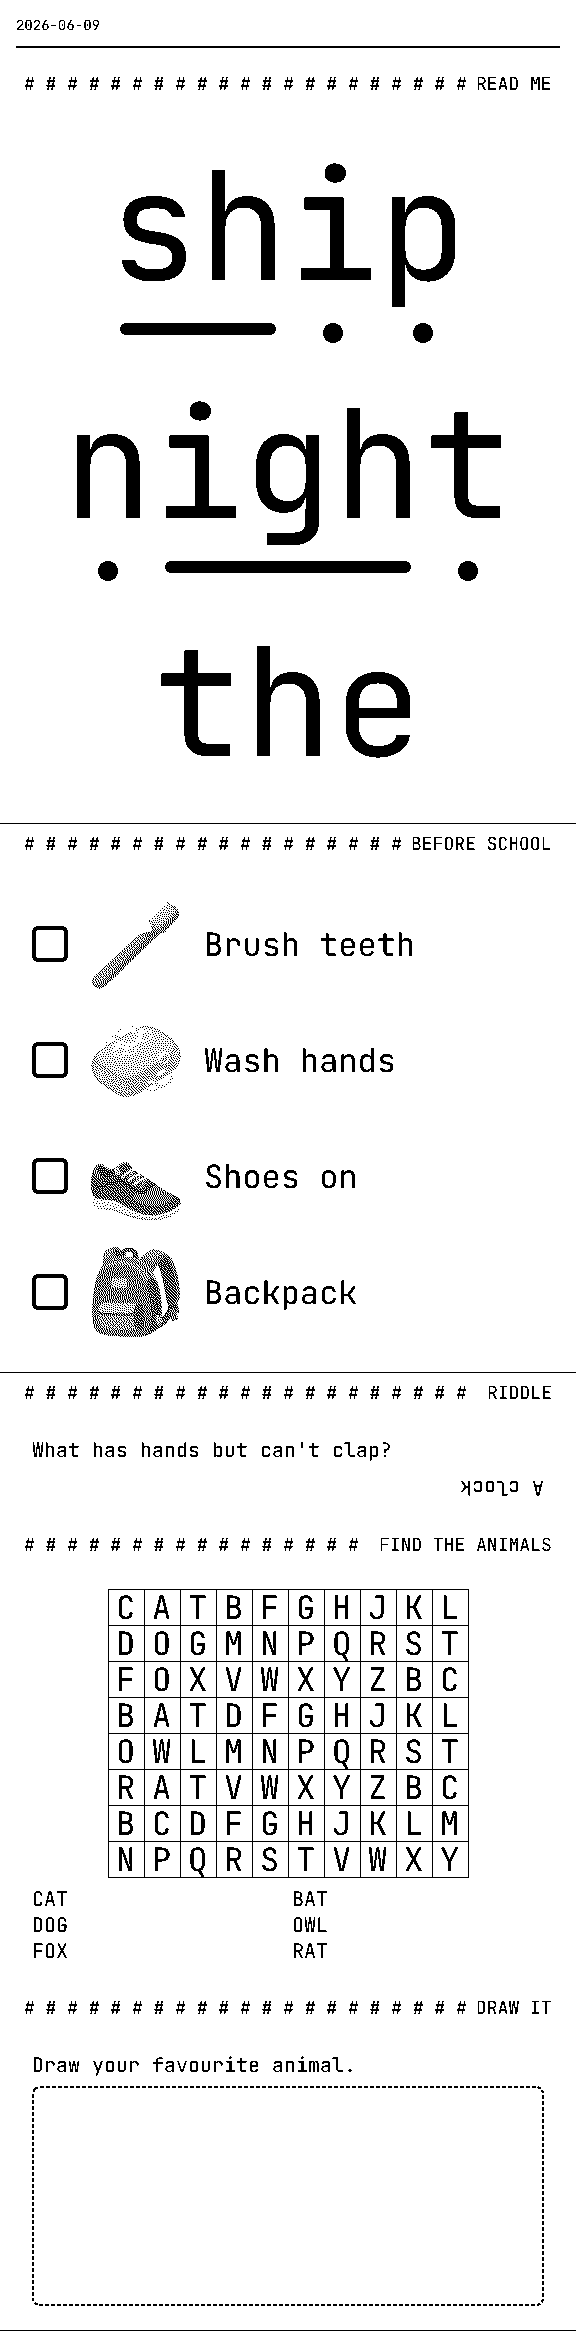
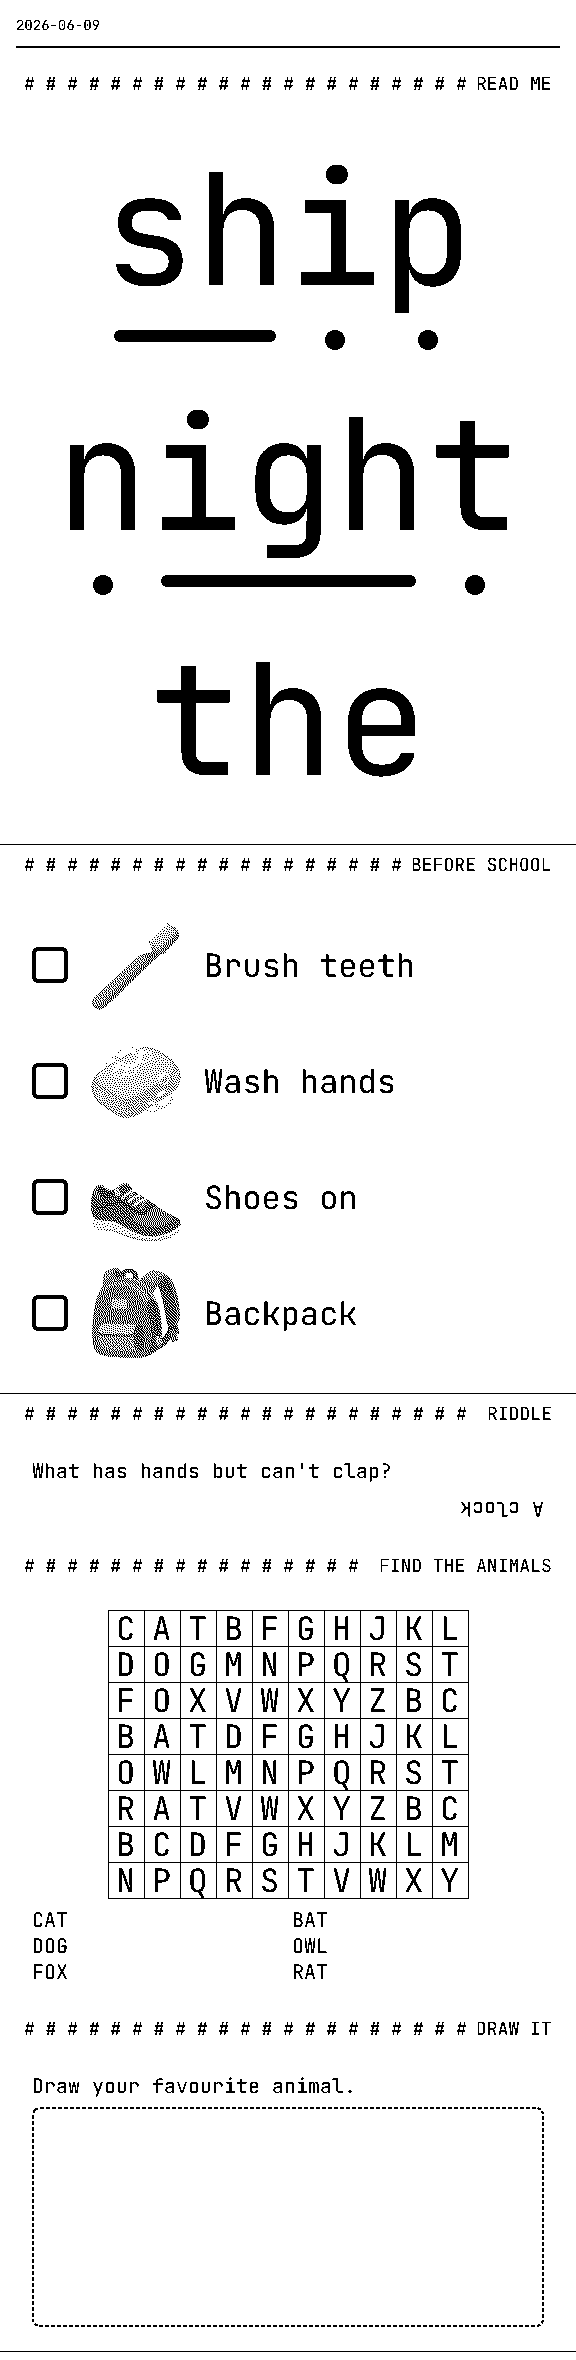
fix: address review on visual refs and phonics fitting
- render-visual-refs throws when a render reports failedBlocks, so an
  invalid doc example fails the run instead of writing a blank PNG.
- phonicsDemo fits the widest word using per-character upper-bound
  advances (1 em for m/w/M/W, 0.8 for caps and digits, 0.66 for other
  lowercase, never below the monospaced 0.6), so wide words like WWWW stay
  on the paper under proportional themes. The recipe is updated to match.

diff --git a/apps/playground/src/showcase-blocks/phonics-demo.tsx b/apps/playground/src/showcase-blocks/phonics-demo.tsx
@@ -30,18 +30,32 @@ const phonicsDemoSchema: ZodType<{ words: PhonicsWord[] }> = z.object({
 export type PhonicsDemoData = z.infer<typeof phonicsDemoSchema>;
 
 /**
- * Average glyph advance used to fit the longest word, in em. 0.6 is exact for
- * monospaced faces (JetBrains Mono, the `mono` theme); proportional faces
- * average a little more, so 0.68 keeps their widest words inside the paper.
+ * Conservative advance of one character, in em: an upper bound across the
+ * builtin faces (Inter, Atkinson Hyperlegible, JetBrains Mono), so the word
+ * fits whatever the theme. Monospaced faces advance exactly 0.6 em per glyph,
+ * so no class goes below that; wide letters (m, w, M, W) approach 1 em in
+ * proportional faces. Accents are ignored (NFD base letter); anything
+ * unrecognised counts as a full em.
  */
-export const PHONICS_ADVANCE_EM = 0.68;
+export function phonicsAdvanceEm(char: string): number {
+  const base = char.normalize("NFD")[0] ?? char;
+  if (/[mwMW@%]/.test(base)) return 1;
+  if (/[A-Z0-9]/.test(base)) return 0.8;
+  if (/[a-z]/.test(base)) return 0.66;
+  if (/[\s'.,!?-]/.test(base)) return 0.6;
+  return 1;
+}
+
 /** Font ceiling: 160 px is ~20 mm at 203 dpi, so short words don't fill the whole slip. */
 export const PHONICS_MAX_FONT_PX = 160;
 
-/** Largest font size at which the longest word fits `contentWidth`, capped at PHONICS_MAX_FONT_PX. */
+/** Largest font size at which the widest word fits `contentWidth`, capped at PHONICS_MAX_FONT_PX. */
 export function phonicsFontSize(words: readonly PhonicsWord[], contentWidth: number): number {
-  const longest = Math.max(1, ...words.map((w) => [...w.word].length));
-  const fitted = Math.floor((contentWidth - 16) / (longest * PHONICS_ADVANCE_EM));
+  const widestEm = Math.max(
+    1,
+    ...words.map((w) => [...w.word].reduce((em, c) => em + phonicsAdvanceEm(c), 0)),
+  );
+  const fitted = Math.floor((contentWidth - 16) / widestEm);
   return Math.max(1, Math.min(PHONICS_MAX_FONT_PX, fitted));
 }
 
@@ -118,6 +132,6 @@ export const phonicsDemoBlock: BlockDefinition<PhonicsDemoData> = defineBlock({
     "Required: `data.words`: 1–6 `{ word, graphemes }`; graphemes must join back into word",
     "Tip: one-letter graphemes get a dot, digraphs/trigraphs (`sh`, `igh`) get a dash",
     "Tip: set `tricky: true` on irregular words to print them without marks",
-    "Tip: the font fits the longest word, capped at 160 px — try the mono theme",
+    "Tip: the font fits the widest word, capped at 160 px — try the mono theme",
   ],
 });

diff --git a/apps/playground/src/showcase-blocks/__tests__/phonics-demo.test.tsx b/apps/playground/src/showcase-blocks/__tests__/phonics-demo.test.tsx
@@ -6,7 +6,12 @@ import type { RenderContext } from "pressedslip";
 import { SHELL_DEFAULTS } from "pressedslip";
 import { renderToStaticMarkup } from "react-dom/server";
 import { describe, expect, it } from "vitest";
-import { PHONICS_MAX_FONT_PX, phonicsDemoBlock, phonicsFontSize } from "../phonics-demo.js";
+import {
+  PHONICS_MAX_FONT_PX,
+  phonicsAdvanceEm,
+  phonicsDemoBlock,
+  phonicsFontSize,
+} from "../phonics-demo.js";
 
 /* biome-ignore lint/suspicious/noEmptyBlockStatements: test stub */
 const noop = () => {};
@@ -55,7 +60,21 @@ describe("phonicsDemoBlock", () => {
     const long = [{ word: "elephants", graphemes: ["e", "l", "e", "ph", "a", "n", "t", "s"] }];
     const size = phonicsFontSize(long, 544);
     expect(size).toBeLessThan(PHONICS_MAX_FONT_PX);
-    expect(size * 9 * 0.68).toBeLessThanOrEqual(544 - 16);
+    expect(size * 9 * 0.66).toBeLessThanOrEqual(544 - 16);
+  });
+
+  it("budgets a full em for wide letters so WWWW stays on the paper", () => {
+    const wide = [{ word: "WWWW", graphemes: ["W", "W", "W", "W"] }];
+    const size = phonicsFontSize(wide, 544);
+    // Inter's W advances ~0.96 em; four of them must fit the 528 px inner width.
+    expect(size * 4 * 0.96).toBeLessThanOrEqual(544 - 16);
+    expect(size).toBeLessThan(PHONICS_MAX_FONT_PX);
+  });
+
+  it("never estimates below the monospaced 0.6 em advance", () => {
+    for (const c of ["i", "l", "'", "é", "Ñ", "m", "W", "😀"]) {
+      expect(phonicsAdvanceEm(c)).toBeGreaterThanOrEqual(0.6);
+    }
   });
 
   it("draws a dot per letter and a stretched dash per digraph", () => {

diff --git a/scripts/docs/render-visual-refs.ts b/scripts/docs/render-visual-refs.ts
@@ -108,6 +108,10 @@ async function renderToPng(
     ? { registry, theme: themeTemplate, width: PAPER.thermal80 }
     : { registry, fonts: [font], width: PAPER.thermal80 };
   const r = await render(composition, options);
+  // A rejected block still yields a PNG (blank where the block should be):
+  // fail loudly so a broken doc example can't ship an empty image.
+  if (r.failedBlocks.length > 0)
+    throw new Error(`${outName}: ${JSON.stringify(r.failedBlocks.map((f) => f.reason.message))}`);
   const bytes = crop ? cropHeader(r.bytes) : r.bytes;
   const outPath = resolve(OUT_DIR, outName);
   writeFileSync(outPath, bytes);

diff --git a/docs/guide/recipes.md b/docs/guide/recipes.md
@@ -143,10 +143,12 @@ trigraphs such as `sh` and `igh`. Tricky words get no marks.
 The patterns:
 
 1. **Fit from `ctx.contentWidth`.** It is the usable width inside the shell
-   padding. Divide it by the longest word's length times the font's average
-   advance. For a monospaced face that is exactly `0.6 em` (JetBrains Mono,
-   the `mono` theme), which makes the "fits, one more pixel would not" test
-   exact. Proportional faces need a little more headroom (`~0.68 em`).
+   padding. Divide it by the widest word's width in em. For a monospaced face
+   every glyph advances exactly `0.6 em` (JetBrains Mono, the `mono` theme),
+   which makes the "fits, one more pixel would not" test exact. If the theme
+   might be proportional, budget per character instead of using an average.
+   Wide letters (`m`, `w`, `M`, `W`) approach `1 em`, and an average lets
+   `WWWW` run off the paper.
 2. **Cap it.** `160 px` is about 20 mm at 203 dpi. Without a cap, a three-letter
    word fills the whole slip.
 3. **Draw marks as boxes, not glyphs.** A `div` with `backgroundColor` and a
@@ -155,12 +157,20 @@ The patterns:
    real glyph width and the mark centres under it.
 
 ```ts
-const ADVANCE_EM = 0.6; // monospaced; use ~0.68 for proportional faces
 const MAX_PX = 160;
 
+/** Upper-bound advance in em: exact for monospaced faces, safe for proportional ones. */
+function advanceEm(char: string): number {
+  const base = char.normalize("NFD")[0] ?? char;
+  if (/[mwMW]/.test(base)) return 1;
+  if (/[A-Z0-9]/.test(base)) return 0.8;
+  if (/[a-z]/.test(base)) return 0.66;
+  return 1;
+}
+
 function fitFontSize(words: string[], contentWidth: number): number {
-  const longest = Math.max(1, ...words.map((w) => [...w].length));
-  return Math.max(1, Math.min(MAX_PX, Math.floor(contentWidth / (longest * ADVANCE_EM))));
+  const widest = Math.max(1, ...words.map((w) => [...w].reduce((em, c) => em + advanceEm(c), 0)));
+  return Math.max(1, Math.min(MAX_PX, Math.floor(contentWidth / widest)));
 }
 ```
 
